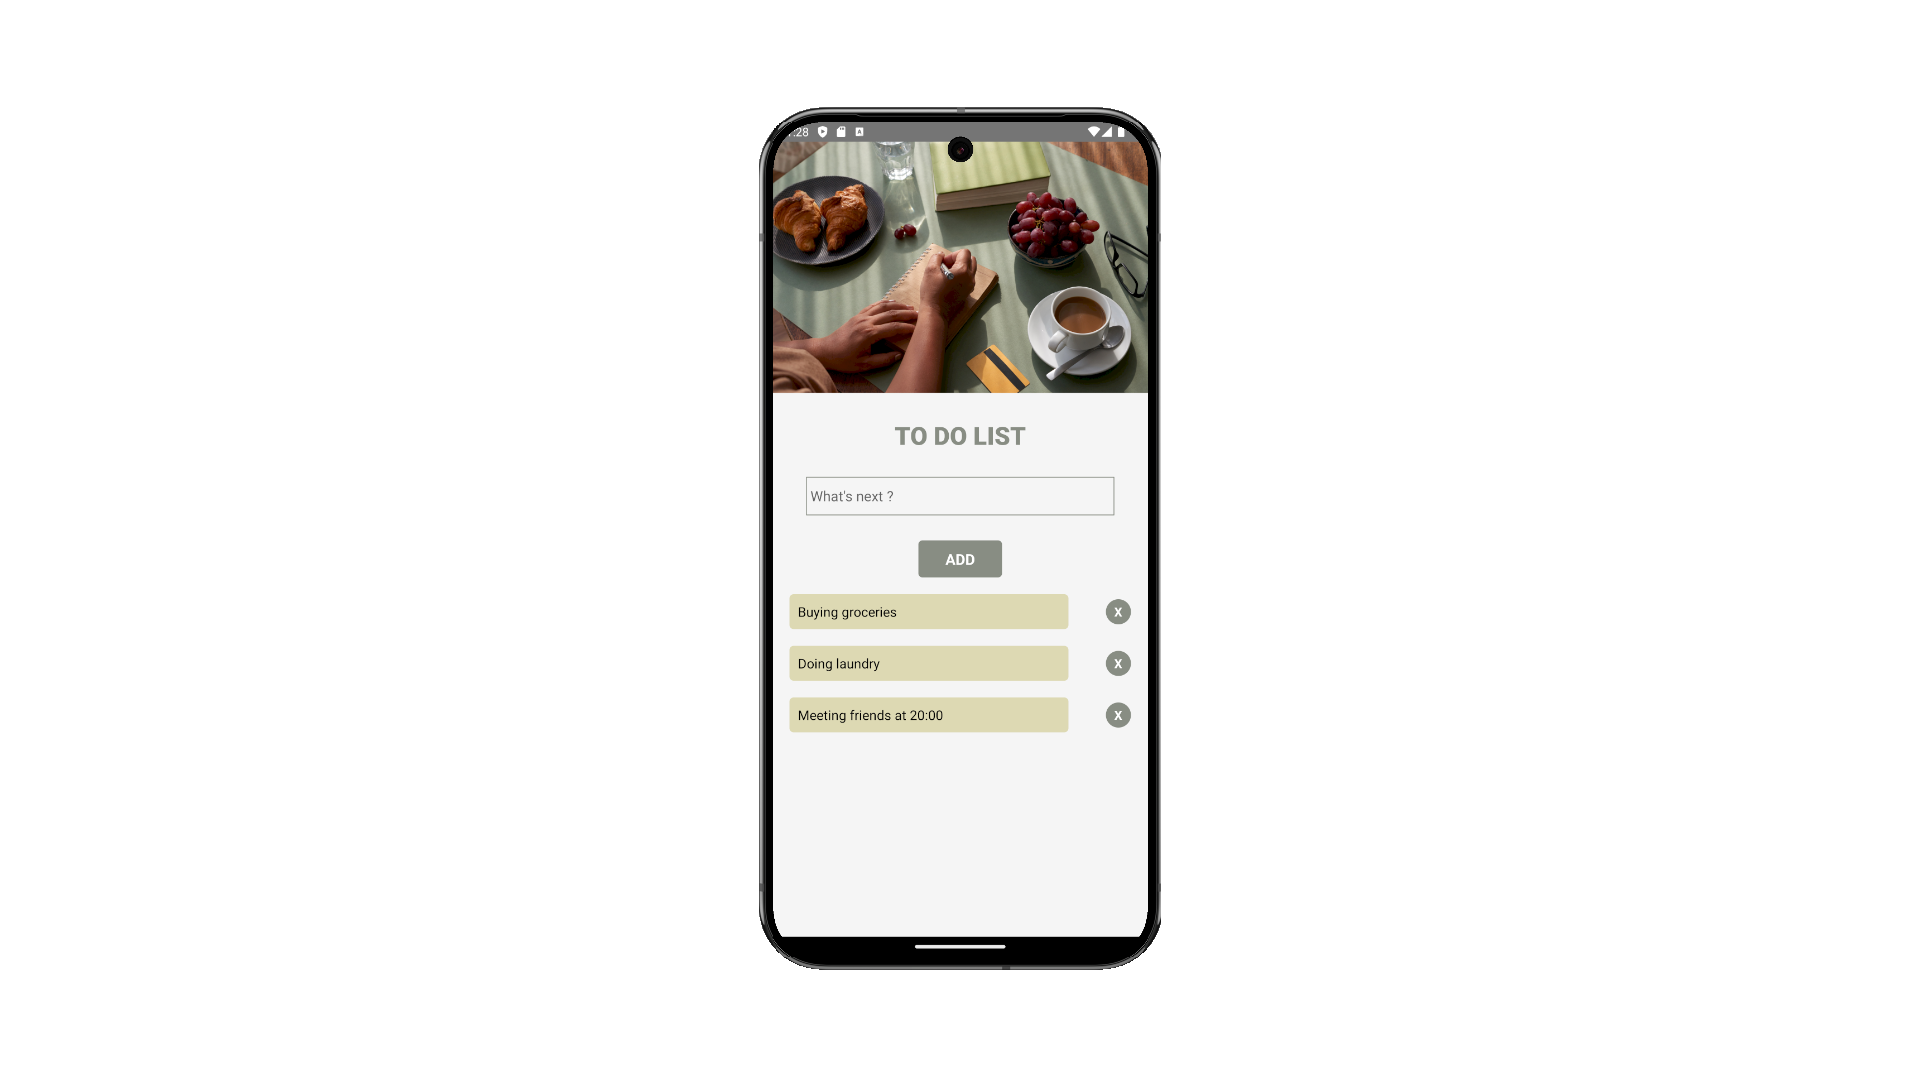
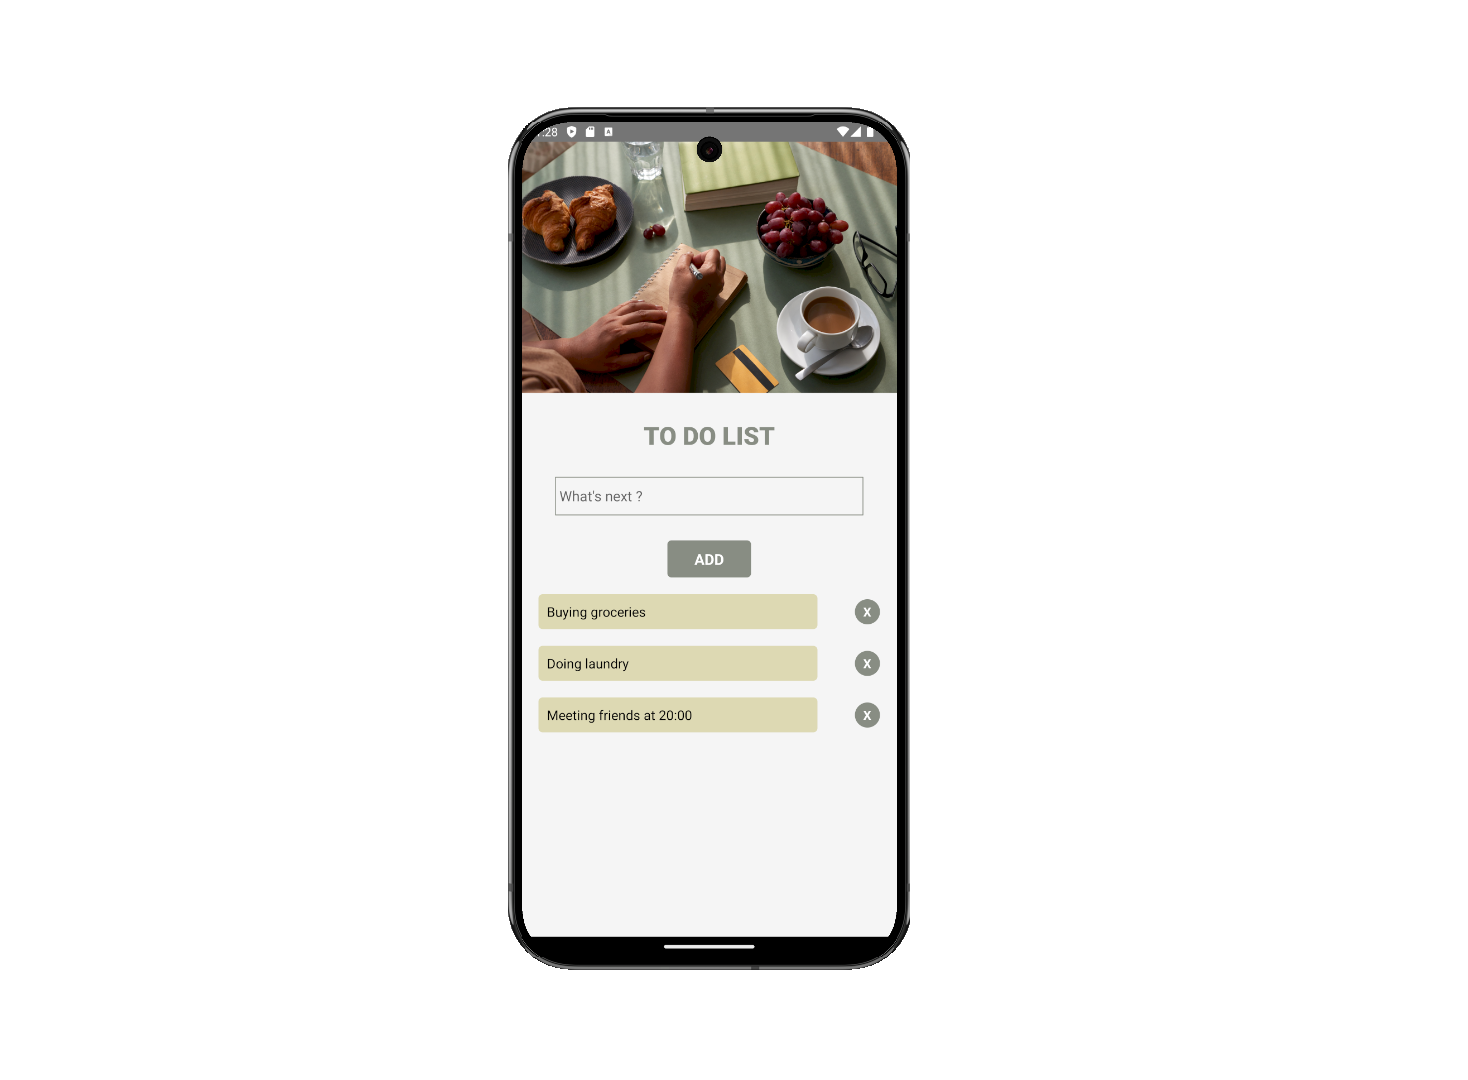
updating readme

Changed region(s): [[0.3372, 0.0917, 0.6437, 0.9167]]

diff --git a/README.md b/README.md
@@ -14,10 +14,8 @@ This mobile app  allows users to create, view, and manage tasks or items. This a
 
 ## Screenshots
 
-
+View with Android Studio Virtual Device Manager
 ![App Screenshot](./00_readme/screenshot_01.png)
-
-
 
 
 
@@ -36,13 +34,15 @@ Enjoy your stay, have a look at my other repositories and let's get in touch if 
 
 **IDE:** Visual Studio Code
 
+**Versioning:** Git, Github
 
-## Acknowledgements
 
+
+## ❤ Acknowledgements
 
 
  Front End
- - [Pressfoto  for the picture ](https://fr.freepik.com/auteur/pressfoto)
+ - [Pressfoto  for the top picture ](https://fr.freepik.com/auteur/pressfoto)
 
 
 
